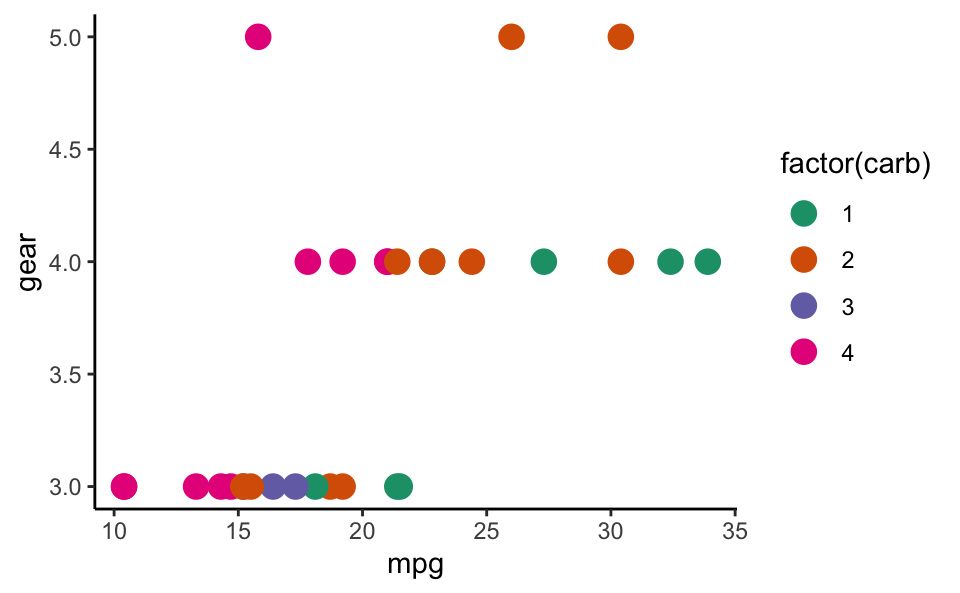
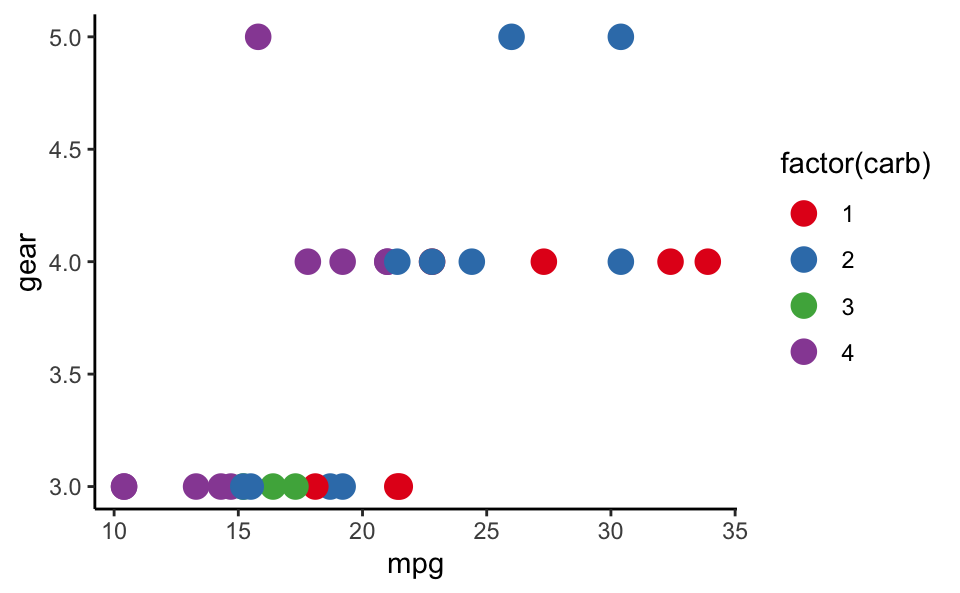
add ggsci

diff --git a/notes/color-palletes-in-r/index.html b/notes/color-palletes-in-r/index.html
@@ -15,8 +15,8 @@
 
     
       
-      <meta property="description" content="# devtools::install_github(&amp;quot;disarm-platform/MapPalettes&amp;quot;) pacman::p_load(dplyr, ggplot2, MapPalettes) mtcars %&amp;gt;% filter(carb &amp;lt;= 4) %&amp;gt;% ggplot(aes(mpg, gear, color = factor(carb))) &#43; &amp;hellip;">
-      <meta property="og:description" content="# devtools::install_github(&amp;quot;disarm-platform/MapPalettes&amp;quot;) pacman::p_load(dplyr, ggplot2, MapPalettes) mtcars %&amp;gt;% filter(carb &amp;lt;= 4) %&amp;gt;% ggplot(aes(mpg, gear, color = factor(carb))) &#43; &amp;hellip;">
+      <meta property="description" content="pacman::p_load(dplyr, ggplot2) mtcars %&amp;gt;% filter(carb &amp;lt;= 4) %&amp;gt;% ggplot(aes(mpg, gear, color = factor(carb))) &#43; geom_point(size = 4) &#43; theme_classic() &#43; ggsci::scale_color_npg() [&amp;hellip;] # &amp;hellip;">
+      <meta property="og:description" content="pacman::p_load(dplyr, ggplot2) mtcars %&amp;gt;% filter(carb &amp;lt;= 4) %&amp;gt;% ggplot(aes(mpg, gear, color = factor(carb))) &#43; geom_point(size = 4) &#43; theme_classic() &#43; ggsci::scale_color_npg() [&amp;hellip;] # &amp;hellip;">
       
     
 
@@ -92,6 +92,7 @@
 <div id="TOC">
 <ul>
 <li><a href="#r-packages">R packages</a><ul>
+<li><a href="#ggsci">ggsci</a></li>
 <li><a href="#mappalettes">MapPalettes</a></li>
 <li><a href="#nationalparkcolors">nationalparkcolors</a></li>
 <li><a href="#wesanderson">wesanderson</a></li>
@@ -111,6 +112,34 @@
 </ol>
 <div id="r-packages" class="section level1">
 <h1>R packages</h1>
+<div id="ggsci" class="section level2">
+<h2>ggsci</h2>
+<ol style="list-style-type: decimal">
+<li>NPG: <code>scale_color_npg()</code> and <code>scale_fill_npg()</code></li>
+<li>AAAS: <code>scale_color_aaas()</code> and <code>scale_fill_aaas()</code></li>
+<li>NEJM</li>
+<li>Lancet</li>
+<li>JAMA</li>
+<li>JCO</li>
+<li>UCSCGB</li>
+<li>D3</li>
+<li>LocusZoom</li>
+<li>IGV</li>
+<li>UChicago</li>
+<li>Star Trek</li>
+<li>Tron Legacy</li>
+<li>Futurama</li>
+<li>Rick and Morty</li>
+<li>The Simpsons</li>
+</ol>
+<pre class="r"><code>pacman::p_load(dplyr, ggplot2)
+mtcars %&gt;% 
+  filter(carb &lt;= 4) %&gt;% 
+  ggplot(aes(mpg, gear, color = factor(carb))) + 
+  geom_point(size = 4) + theme_classic() + 
+  ggsci::scale_color_npg()</code></pre>
+<p><img src="/Notes/2019-11-02-color-palletes-in-r_files/figure-html/unnamed-chunk-1-1.png" width="480" style="display: block; margin: auto;" /></p>
+</div>
 <div id="mappalettes" class="section level2">
 <h2>MapPalettes</h2>
 <ol style="list-style-type: decimal">
@@ -133,7 +162,7 @@ mtcars %&gt;%
   geom_point(size = 4) + theme_classic() + 
   scale_color_manual(values = 
       MapPalettes::map_palette(&quot;tealberry_pie&quot;, 4))</code></pre>
-<p><img src="/Notes/2019-11-02-color-palletes-in-r_files/figure-html/unnamed-chunk-2-1.png" width="480" style="display: block; margin: auto;" /></p>
+<p><img src="/Notes/2019-11-02-color-palletes-in-r_files/figure-html/unnamed-chunk-3-1.png" width="480" style="display: block; margin: auto;" /></p>
 </div>
 <div id="nationalparkcolors" class="section level2">
 <h2>nationalparkcolors</h2>
@@ -150,7 +179,7 @@ mtcars %&gt;%
   geom_point(size = 4) + theme_classic() + 
   scale_color_manual(values = 
       nationalparkcolors::park_palette(&quot;MtRainier&quot;, 4))</code></pre>
-<p><img src="/Notes/2019-11-02-color-palletes-in-r_files/figure-html/unnamed-chunk-5-1.png" width="480" style="display: block; margin: auto;" /></p>
+<p><img src="/Notes/2019-11-02-color-palletes-in-r_files/figure-html/unnamed-chunk-6-1.png" width="480" style="display: block; margin: auto;" /></p>
 </div>
 <div id="wesanderson" class="section level2">
 <h2>wesanderson</h2>
@@ -173,8 +202,8 @@ mtcars %&gt;%
   ggplot(aes(mpg, gear, color = factor(carb))) + 
   geom_point(size = 4) + theme_classic() + 
   scale_color_manual(values = 
-      wes_palette(n = 4, name = &quot;GrandBudapest1&quot;))</code></pre>
-<p><img src="/Notes/2019-11-02-color-palletes-in-r_files/figure-html/unnamed-chunk-8-1.png" width="480" style="display: block; margin: auto;" /></p>
+      wesanderson::wes_palette(n = 4, name = &quot;GrandBudapest1&quot;))</code></pre>
+<p><img src="/Notes/2019-11-02-color-palletes-in-r_files/figure-html/unnamed-chunk-9-1.png" width="480" style="display: block; margin: auto;" /></p>
 </div>
 <div id="viridis" class="section level2">
 <h2>viridis</h2>
@@ -185,8 +214,8 @@ mtcars %&gt;%
   filter(carb &lt;= 4) %&gt;% 
   ggplot(aes(mpg, gear, color = factor(carb))) + 
   geom_point(size = 4) + theme_classic() + 
-  scale_color_viridis(discrete = TRUE)</code></pre>
-<p><img src="/Notes/2019-11-02-color-palletes-in-r_files/figure-html/unnamed-chunk-10-1.png" width="480" style="display: block; margin: auto;" /></p>
+  viridis::scale_color_viridis(discrete = TRUE)</code></pre>
+<p><img src="/Notes/2019-11-02-color-palletes-in-r_files/figure-html/unnamed-chunk-11-1.png" width="480" style="display: block; margin: auto;" /></p>
 </div>
 <div id="rcolorbrewer" class="section level2">
 <h2>RColorBrewer</h2>
@@ -198,7 +227,7 @@ mtcars %&gt;%
   geom_point(size = 4) + theme_classic() + 
   scale_color_manual(values = 
       RColorBrewer::brewer.pal(n = 4, name = &#39;Set1&#39;))</code></pre>
-<p><img src="/Notes/2019-11-02-color-palletes-in-r_files/figure-html/unnamed-chunk-11-1.png" width="480" style="display: block; margin: auto;" /></p>
+<p><img src="/Notes/2019-11-02-color-palletes-in-r_files/figure-html/unnamed-chunk-12-1.png" width="480" style="display: block; margin: auto;" /></p>
 </div>
 <div id="brewer-function-from-ggplot2" class="section level2">
 <h2><code>_brewer()</code> function from <code>ggplot2</code></h2>
@@ -208,7 +237,14 @@ mtcars %&gt;%
   ggplot(aes(mpg, gear, color = factor(carb))) + 
   geom_point(size = 4) + theme_classic() + 
   ggplot2::scale_color_brewer(palette = &quot;Dark2&quot;)</code></pre>
-<p><img src="/Notes/2019-11-02-color-palletes-in-r_files/figure-html/unnamed-chunk-12-1.png" width="480" style="display: block; margin: auto;" /></p>
+<p><img src="/Notes/2019-11-02-color-palletes-in-r_files/figure-html/unnamed-chunk-13-1.png" width="480" style="display: block; margin: auto;" /></p>
+<pre class="r"><code>pacman::p_load(dplyr, ggplot2)
+mtcars %&gt;% 
+  filter(carb &lt;= 4) %&gt;% 
+  ggplot(aes(mpg, gear, color = factor(carb))) + 
+  geom_point(size = 4) + theme_classic() + 
+  ggplot2::scale_colour_grey()</code></pre>
+<p><img src="/Notes/2019-11-02-color-palletes-in-r_files/figure-html/unnamed-chunk-14-1.png" width="480" style="display: block; margin: auto;" /></p>
 </div>
 </div>
 <div id="websites" class="section level1">
@@ -226,7 +262,7 @@ mtcars %&gt;%
   ggplot(aes(mpg, gear, color = factor(carb))) + 
   geom_point(size = 4) + theme_classic() + 
   scale_color_manual(values = color_var)</code></pre>
-<p><img src="/Notes/2019-11-02-color-palletes-in-r_files/figure-html/unnamed-chunk-14-1.png" width="480" style="display: block; margin: auto;" /></p>
+<p><img src="/Notes/2019-11-02-color-palletes-in-r_files/figure-html/unnamed-chunk-16-1.png" width="480" style="display: block; margin: auto;" /></p>
 </div>
 <div id="open-color" class="section level2">
 <h2>open color</h2>
@@ -241,7 +277,7 @@ mtcars %&gt;%
   ggplot(aes(mpg, gear, color = factor(carb))) + 
   geom_point(size = 4) + theme_classic() + 
   scale_color_manual(values = color_var)</code></pre>
-<p><img src="/Notes/2019-11-02-color-palletes-in-r_files/figure-html/unnamed-chunk-16-1.png" width="480" style="display: block; margin: auto;" /></p>
+<p><img src="/Notes/2019-11-02-color-palletes-in-r_files/figure-html/unnamed-chunk-18-1.png" width="480" style="display: block; margin: auto;" /></p>
 </div>
 </div>
 
